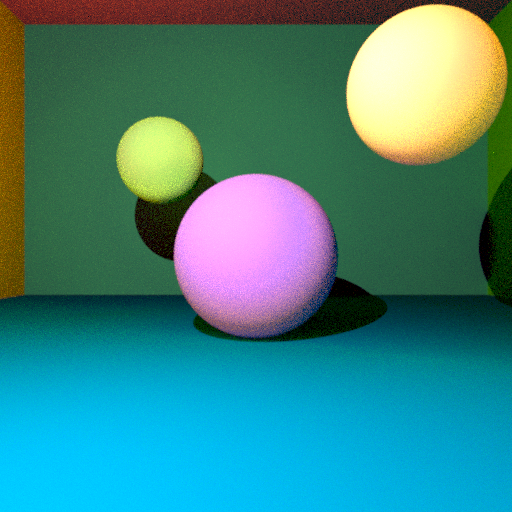
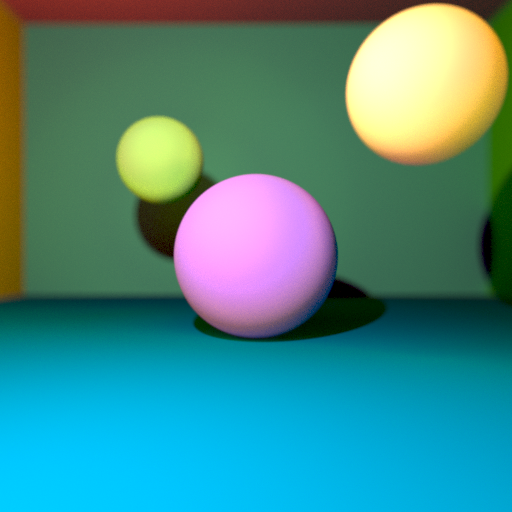
profondeur de champs

Changed region(s): [[0.0, 0.0, 1.0, 0.6562], [0.6562, 0.125, 0.6875, 0.25], [0.6875, 0.25, 0.7188, 0.2812]]

diff --git a/MyGraphicsEngine.cpp b/MyGraphicsEngine.cpp
@@ -16,7 +16,7 @@
 #define GAMMA 2.2
 #define EPSILON 1e-6
 #define DEFAULT_MAX_RECURSION_DEPTH 4
-#define NB_RAY 64
+#define NB_RAY 1024
 #define DEFAULT_STD_ANTIALIASING 0.6
 
 #ifdef _OPENMP
@@ -382,7 +382,8 @@ int main() {
     int W{ WIDTH };
     int H{ HEIGHT };
     double alpha{ 60 * M_PI / 180 };
-    // double focus{ 55 };
+    double focus_distance{ 55 };
+    double aperture_max_size{ 2 };
 
     int sphere_radius{ 10 };
     int offset_to_wall{ 50 };
@@ -400,6 +401,7 @@ int main() {
     scene.addSphere(Sphere(Vector(15, 15, 15), sphere_radius / 1.5, Vector(0.9, 0.5, 0.2)));// , false, true, 1.3));
     //scene.addSphere(Sphere(Vector(-15, 15, -15), sphere_radius / 1.5, Vector(0.5, 0.9, 0.2), true));
     //scene.addSphere(Sphere(Vector(15, 15, 15), sphere_radius / 1.5, Vector(0.9, 0.5, 0.2), false, true, 1.3));
+
     scene.addSphere(Sphere(Vector(0, 0, 56), 0 / 1.5, Vector(0.9, 0.5, 0.2), false, true, 1.3));
 
     //scene.addSphere(Sphere(Vector(big_radius, 0, 0), big_radius - offset_to_wall - sphere_radius, Vector(0.8, 0.4, 0.6)));
@@ -412,7 +414,7 @@ int main() {
     scene.addSphere(Sphere(Vector(-big_radius, 0, 0), big_radius - offset_to_wall - sphere_radius, Vector(255.0 / 255.0, 140.0 / 255.0, 0.0 / 255.0)));
     scene.addSphere(Sphere(Vector(0, big_radius, 0), big_radius - offset_to_wall - sphere_radius, Vector(238.0 / 255.0, 29.0 / 255.0, 35.0 / 255.0)));
     scene.addSphere(Sphere(Vector(0, -big_radius, 0), big_radius - sphere_radius, Vector(0.0 / 255.0, 44.0 / 255.0, 89.0 / 255.0)));
-    scene.addSphere(Sphere(Vector(0, 0, -big_radius), big_radius - offset_to_wall - sphere_radius, Vector(26.0 / 255.0, 174.0 / 255.0, 76.0 / 255.0)));
+    scene.addSphere(Sphere(Vector(0, 0, -big_radius), big_radius - offset_to_wall - sphere_radius, Vector(56.0 / 255.0, 224.0 / 255.0, 116.0 / 255.0)));
     scene.addSphere(Sphere(Vector(0, 0, big_radius), big_radius - offset_to_wall - sphere_radius, Vector(255 / 255.0, 255 / 255.0, 0 / 255.0)));
 
     std::vector<unsigned char> image(W*H * 3, 0);
@@ -441,7 +443,22 @@ int main() {
                 boxMuller(dx, dy);
                 Vector direction((j + 0.5 + dx) - (W / 2), (H / 2) - (i + 0.5 + dy), -W / (2 * tan(alpha / 2)));
                 direction.normalize();
-                Ray ray(origin_camera, direction);
+
+                #ifdef _OPENMP
+                    int thread_id{ omp_get_thread_num() };
+                #else
+                    int thread_id{ 0 };
+                #endif
+
+                double dx_aperture{ aperture_max_size * (uniform(engines[thread_id]) - 0.5) };
+                double dy_aperture{ aperture_max_size * (uniform(engines[thread_id]) - 0.5) };
+                
+                Vector destination{origin_camera + focus_distance * direction};
+                Vector new_origin_camera{origin_camera + Vector(dx_aperture, dy_aperture, 0)};
+                Vector new_direction{destination - new_origin_camera};
+                new_direction.normalize();
+
+                Ray ray(new_origin_camera, new_direction);
 
                 color += (scene.getColor(ray) / NB_RAY);
             }
